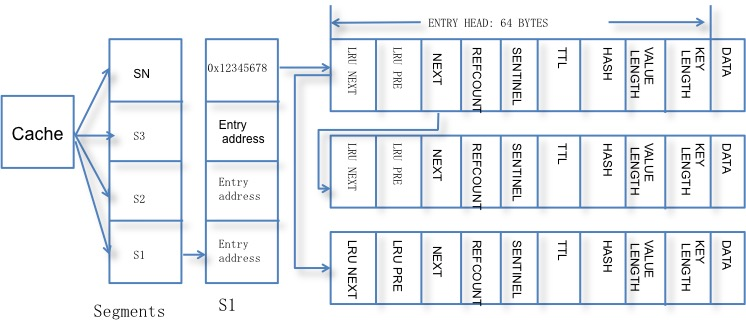
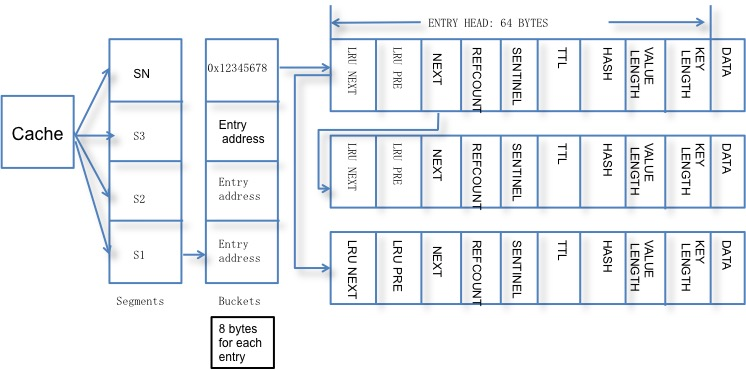
Site updated: 2016-09-10 19:45:51

diff --git a/2016/09/10/multiLevelCache2/index.html b/2016/09/10/multiLevelCache2/index.html
@@ -31,7 +31,7 @@
 
 开源实现本地缓存的开源实现也有不少，对于堆内缓存的开源方案则更多，比如Guava或者Ehcache，这个选择相对比较容易。这里我们重点关注的是堆外缓存的开源实现。了解">
 <meta property="og:image" content="http://yoursite.com/images/multilevelcache2/OHC-data.jpg">
-<meta property="og:updated_time" content="2016-09-10T11:12:13.000Z">
+<meta property="og:updated_time" content="2016-09-10T11:45:32.000Z">
 <meta name="twitter:card" content="summary">
 <meta name="twitter:title" content="多级缓存 （下）- 堆外缓存">
 <meta name="twitter:description" content="写在开头
@@ -279,7 +279,7 @@
 <p>本文后续的内容以OHC作为基础进行介绍。</p>
 <h2 id="堆外缓存关注点"><a href="#堆外缓存关注点" class="headerlink" title="堆外缓存关注点"></a>堆外缓存关注点</h2><h3 id="序列化"><a href="#序列化" class="headerlink" title="序列化"></a>序列化</h3><p>从上一节我们大概可以了解到，存放一个JAVA对象到堆外缓存中需要有一个从JAVA对象到ByteBuffer的转换的过程。而为了尽量简化API的使用，使用者不需要去为对象编写特定的序列化过程，我们需要一个高效的序列化框架。先通过序列化框架序列化, 再转成堆外的ByteBuffer上。在堆外缓存的使用场景中，该序列化框架应该至少具备以下一些要求：</p>
 <blockquote>
-<h4 id="高性能"><a href="#高性能" class="headerlink" title="高性能"></a>高性能</h4><p>这个不用说，鬼都知道</p>
+<h4 id="高性能"><a href="#高性能" class="headerlink" title="高性能"></a>高性能</h4><p>这个不用说</p>
 <h4 id="序列化的数据overhead小"><a href="#序列化的数据overhead小" class="headerlink" title="序列化的数据overhead小"></a>序列化的数据overhead小</h4><p>由于堆外缓存本来就占用内存资源多，所以如果序列化框架序列化造成的overhead过大的话是无法接受的。其实如果序列化框架造成的overhead是定长的话是最完美的，少去了中间转换的过程，可以直接把JAVA对象序列化到堆外，大大提高了性能也能降低GC的频率。</p>
 <h4 id="简单易用"><a href="#简单易用" class="headerlink" title="简单易用"></a>简单易用</h4><p>使用要尽量简单，尽量少的倾入，最好是用户根本就不知道你用的是什么鬼。所以那些基于IDL的如PB, Thrift，以及基于Schema的如Avro就不是很好的选择，如果还要代码生成的就要崩溃了, 这些大部分是基于跨语言通讯的需要。</p>
 <h4 id="兼容性"><a href="#兼容性" class="headerlink" title="兼容性"></a>兼容性</h4><p>这里的兼容性包括几个方面：</p>
@@ -289,13 +289,16 @@
 <li>当然如果你的数据没有持久化又或者你的应用不支持热加载如OSGI可以不要考虑该问题。</li>
 </ul>
 </blockquote>
-<p>关于序列化协议的选择，有一个非常不错的benchmark可以参考 <a href="https://github.com/eishay/jvm-serializers/wiki" target="_blank" rel="external">jvm-serializers</a>，里面对各种序列化协议从各种不同维度进行了对比。最后我们选择了Kryo，因为Kryo在性能上以及序列化造成的overhead上均表现非常优异，且使用对用户透明。TODO 给个例子</p>
+<p>关于序列化协议的选择，有一个非常不错的benchmark可以参考 <a href="https://github.com/eishay/jvm-serializers/wiki" target="_blank" rel="external">jvm-serializers</a>，里面对各种序列化协议从各种不同维度进行了对比。最后我们选择了Kryo，因为Kryo在性能上以及序列化造成的overhead上均表现非常优异，且使用对用户透明。</p>
+<p>一个Kryo的使用例子：</p>
+<figure class="highlight java"><table><tr><td class="gutter"><pre><div class="line">1</div><div class="line">2</div><div class="line">3</div><div class="line">4</div><div class="line">5</div><div class="line">6</div><div class="line">7</div><div class="line">8</div><div class="line">9</div><div class="line">10</div><div class="line">11</div><div class="line">12</div><div class="line">13</div><div class="line">14</div><div class="line">15</div><div class="line">16</div><div class="line">17</div><div class="line">18</div><div class="line">19</div></pre></td><td class="code"><pre><div class="line"><span class="comment">// Setup ThreadLocal of Kryo instances</span></div><div class="line"><span class="keyword">private</span> <span class="keyword">static</span> <span class="keyword">final</span> ThreadLocal&lt;Kryo&gt; kryos = <span class="keyword">new</span> ThreadLocal&lt;Kryo&gt;() &#123;</div><div class="line">    <span class="function"><span class="keyword">protected</span> Kryo <span class="title">initialValue</span><span class="params">()</span> </span>&#123;</div><div class="line">        Kryo kryo = <span class="keyword">new</span> Kryo();</div><div class="line">        <span class="comment">// configure kryo instance, customize settings</span></div><div class="line">        <span class="keyword">return</span> kryo;</div><div class="line">    &#125;;</div><div class="line">&#125;;</div><div class="line"></div><div class="line">Kryo kryo = kryos.get();</div><div class="line">    <span class="comment">// ...</span></div><div class="line">Output output = <span class="keyword">new</span> Output(<span class="keyword">new</span> FileOutputStream(<span class="string">"file.bin"</span>));</div><div class="line">SomeClass someObject = ...</div><div class="line">kryo.writeObject(output, someObject);</div><div class="line">output.close();</div><div class="line"><span class="comment">// ...</span></div><div class="line">Input input = <span class="keyword">new</span> Input(<span class="keyword">new</span> FileInputStream(<span class="string">"file.bin"</span>));</div><div class="line">SomeClass someObject = kryo.readObject(input, SomeClass.class);</div><div class="line">input.close();</div></pre></td></tr></table></figure>
+<p>这里自己需要简单封装一下，因为Kryo不是线程安全的，且每次使用创建的成本较高，所以要么Pooling要么TLC.</p>
 <h3 id="内存管理"><a href="#内存管理" class="headerlink" title="内存管理"></a>内存管理</h3><h4 id="JAVA堆外内存分配"><a href="#JAVA堆外内存分配" class="headerlink" title="JAVA堆外内存分配"></a>JAVA堆外内存分配</h4><p>堆外内存的分配大家比较熟悉的是使用如下的JNI方式进行分配：</p>
 <figure class="highlight java"><table><tr><td class="gutter"><pre><div class="line">1</div></pre></td><td class="code"><pre><div class="line">java.nio.ByteBuffer.allocateDirect(<span class="keyword">int</span>)</div></pre></td></tr></table></figure>
 <p>大抵的原理是其内部还是使用的Unsafe进行的内存分配, 从下面的API声明可知该方法是一个JNI的封装。详细请参考：<a href="http://www.docjar.com/html/api/sun/misc/Unsafe.java.html" target="_blank" rel="external">Unsafe</a>。</p>
 <figure class="highlight java"><table><tr><td class="gutter"><pre><div class="line">1</div></pre></td><td class="code"><pre><div class="line"><span class="function"><span class="keyword">public</span> <span class="keyword">native</span> <span class="keyword">long</span> <span class="title">allocateMemory</span><span class="params">(<span class="keyword">long</span> bytes)</span></span></div></pre></td></tr></table></figure>
 <p>通过Unsafe进行分配的内存受限于XX:MaxDirectMemorySize的配置，换句话无论哪里用到了堆外缓存，只要通过Unsafe的方式进行的分配都是共享该Quota的。最好的方式其实是不同用途的堆外内存可以隔离开来，比如堆外缓存的一块，netty的一块。</p>
-<p>JNA（Java Native Access) 是社区开发的一套类库，号称是JNI的终结者。传统需要调用本地方法既要写c代码生成DLL/SO，又要写java代码进行封装才能提供JAVA调用，既繁琐效率又低。而JNA是通过libffi来实现的，提供了一套接口，用户只需要通过JAVA代码定义本地方法和数据类型，JNA负责把JAVA方法的调用进行Dispatch到相应的本地方法调用，你不再需要不厌其烦的为每个本地方法都写个C和JAVA的wrapper方法对。详细请参考我的另外一个文章。TODO</p>
+<p>JNA（Java Native Access) 是社区开发的一套类库，号称是JNI的终结者。传统需要调用本地方法既要写c代码生成DLL/SO，又要写java代码进行封装才能提供JAVA调用，既繁琐效率又低。而JNA是通过libffi来实现的，提供了一套接口，用户只需要通过JAVA代码定义本地方法和数据类型，JNA负责把JAVA方法的调用进行Dispatch到相应的本地方法调用，你不再需要不厌其烦的为每个本地方法都写个C和JAVA的wrapper方法对。限于篇幅，请参考另外一篇。</p>
 <p>先来看一下，通过JNA的malloc是怎么做的：</p>
 <figure class="highlight java"><table><tr><td class="gutter"><pre><div class="line">1</div></pre></td><td class="code"><pre><div class="line">com.sun.jna.Native.malloc(<span class="keyword">long</span>)</div></pre></td></tr></table></figure>
 <p>方法声明如下：</p>
@@ -310,8 +313,8 @@
 <p>Segment的数量默认是内核的两倍，每个Segment的bucket数量默认是8192，loadFactor是0.75，应用需要根据自己的key的数量来合理的设置以上参数，否则可能会导致rehash次数过多或者访问效率过低。实现方式跟普通的ConcurrentHashMap差不多，只是从上图可知每个bucket及每个entry的数据都存放在一个特定的堆外数据结构当中。每个bucket 8个字节存放这个bucket的首个entry的内存地址，每个entry也是一块连续的内存，由固定长度的64个字节的头和key length+value length的data组成。</p>
 <p>当往cache中放一个k/v时，会动态申请一块新的内存，删除后直接释放。为什么没有像netty一样通过维护一组不同大小的buffer来组合复用内存呢？个人觉得cache主要解决的是读多写少的问题，数据变的频率较低。另外堆外缓存存放的是百万甚至千万的entry，所以对内存大小比较敏感，最好是一点也不浪费，要多少则申请多少，而不是使用固定大小的内存块，大小总归不一定匹配，会有一些浪费。</p>
 <p>最后，OHC也提供了一个参数用于配置堆外缓存的总内存大小，如果你是需要缓存全量数据的则使用的时候需要合理评估容量进行设置。如果缓存的是热点数据，当空间不足时会根据LRU进行淘汰数据。</p>
-<h3 id="容量评估"><a href="#容量评估" class="headerlink" title="容量评估"></a>容量评估</h3><p>当你使用堆外缓存时，一个很重要的就是需要提前进行内存容量的评估。这里有个需要重点考虑的因数是除了业务数据本身的大小之外，你还要考虑序列化框架的序列化和缓存框架本身的数据结构造成的overhead。以OHC为例，由OHC的数据结构可知，OHC造成的overhead = bucket number <em> 8字节 + entry number </em> 64个字节。</p>
-<p>当然最稳妥的方式是进行压测！</p>
+<h3 id="容量评估"><a href="#容量评估" class="headerlink" title="容量评估"></a>容量评估</h3><p>当你使用堆外缓存时，一个很重要的就是需要提前进行内存容量的评估。这里有个需要重点考虑的因数是除了业务数据本身的大小之外，你还要考虑序列化框架的序列化和缓存框架本身的数据结构造成的overhead。比如：kryo需要可能需要存储对象的类名、属性类型、属性是否为空等各种标识，取决于你的对象的复杂程度，会造成额外的overhead. 另外，以OHC为例，由OHC的数据结构可知，OHC造成的overhead = bucket number * 8字节 + entry number * 64个字节。</p>
+<p>当然最稳妥的方式是根据业务情况进行压测！</p>
 <h2 id="写在最后"><a href="#写在最后" class="headerlink" title="写在最后"></a>写在最后</h2><p>后续还可以关注以下问题：</p>
 <ul>
 <li>评测缓存数据量及更新频率对GC的影响，为选择堆内还是堆外缓存提供参考依据。</li>

diff --git a/index.html b/index.html
@@ -241,7 +241,7 @@
 <p>本文后续的内容以OHC作为基础进行介绍。</p>
 <h2 id="堆外缓存关注点"><a href="#堆外缓存关注点" class="headerlink" title="堆外缓存关注点"></a>堆外缓存关注点</h2><h3 id="序列化"><a href="#序列化" class="headerlink" title="序列化"></a>序列化</h3><p>从上一节我们大概可以了解到，存放一个JAVA对象到堆外缓存中需要有一个从JAVA对象到ByteBuffer的转换的过程。而为了尽量简化API的使用，使用者不需要去为对象编写特定的序列化过程，我们需要一个高效的序列化框架。先通过序列化框架序列化, 再转成堆外的ByteBuffer上。在堆外缓存的使用场景中，该序列化框架应该至少具备以下一些要求：</p>
 <blockquote>
-<h4 id="高性能"><a href="#高性能" class="headerlink" title="高性能"></a>高性能</h4><p>这个不用说，鬼都知道</p>
+<h4 id="高性能"><a href="#高性能" class="headerlink" title="高性能"></a>高性能</h4><p>这个不用说</p>
 <h4 id="序列化的数据overhead小"><a href="#序列化的数据overhead小" class="headerlink" title="序列化的数据overhead小"></a>序列化的数据overhead小</h4><p>由于堆外缓存本来就占用内存资源多，所以如果序列化框架序列化造成的overhead过大的话是无法接受的。其实如果序列化框架造成的overhead是定长的话是最完美的，少去了中间转换的过程，可以直接把JAVA对象序列化到堆外，大大提高了性能也能降低GC的频率。</p>
 <h4 id="简单易用"><a href="#简单易用" class="headerlink" title="简单易用"></a>简单易用</h4><p>使用要尽量简单，尽量少的倾入，最好是用户根本就不知道你用的是什么鬼。所以那些基于IDL的如PB, Thrift，以及基于Schema的如Avro就不是很好的选择，如果还要代码生成的就要崩溃了, 这些大部分是基于跨语言通讯的需要。</p>
 <h4 id="兼容性"><a href="#兼容性" class="headerlink" title="兼容性"></a>兼容性</h4><p>这里的兼容性包括几个方面：</p>
@@ -251,13 +251,16 @@
 <li>当然如果你的数据没有持久化又或者你的应用不支持热加载如OSGI可以不要考虑该问题。</li>
 </ul>
 </blockquote>
-<p>关于序列化协议的选择，有一个非常不错的benchmark可以参考 <a href="https://github.com/eishay/jvm-serializers/wiki" target="_blank" rel="external">jvm-serializers</a>，里面对各种序列化协议从各种不同维度进行了对比。最后我们选择了Kryo，因为Kryo在性能上以及序列化造成的overhead上均表现非常优异，且使用对用户透明。TODO 给个例子</p>
+<p>关于序列化协议的选择，有一个非常不错的benchmark可以参考 <a href="https://github.com/eishay/jvm-serializers/wiki" target="_blank" rel="external">jvm-serializers</a>，里面对各种序列化协议从各种不同维度进行了对比。最后我们选择了Kryo，因为Kryo在性能上以及序列化造成的overhead上均表现非常优异，且使用对用户透明。</p>
+<p>一个Kryo的使用例子：</p>
+<figure class="highlight java"><table><tr><td class="gutter"><pre><div class="line">1</div><div class="line">2</div><div class="line">3</div><div class="line">4</div><div class="line">5</div><div class="line">6</div><div class="line">7</div><div class="line">8</div><div class="line">9</div><div class="line">10</div><div class="line">11</div><div class="line">12</div><div class="line">13</div><div class="line">14</div><div class="line">15</div><div class="line">16</div><div class="line">17</div><div class="line">18</div><div class="line">19</div></pre></td><td class="code"><pre><div class="line"><span class="comment">// Setup ThreadLocal of Kryo instances</span></div><div class="line"><span class="keyword">private</span> <span class="keyword">static</span> <span class="keyword">final</span> ThreadLocal&lt;Kryo&gt; kryos = <span class="keyword">new</span> ThreadLocal&lt;Kryo&gt;() &#123;</div><div class="line">    <span class="function"><span class="keyword">protected</span> Kryo <span class="title">initialValue</span><span class="params">()</span> </span>&#123;</div><div class="line">        Kryo kryo = <span class="keyword">new</span> Kryo();</div><div class="line">        <span class="comment">// configure kryo instance, customize settings</span></div><div class="line">        <span class="keyword">return</span> kryo;</div><div class="line">    &#125;;</div><div class="line">&#125;;</div><div class="line"></div><div class="line">Kryo kryo = kryos.get();</div><div class="line">    <span class="comment">// ...</span></div><div class="line">Output output = <span class="keyword">new</span> Output(<span class="keyword">new</span> FileOutputStream(<span class="string">"file.bin"</span>));</div><div class="line">SomeClass someObject = ...</div><div class="line">kryo.writeObject(output, someObject);</div><div class="line">output.close();</div><div class="line"><span class="comment">// ...</span></div><div class="line">Input input = <span class="keyword">new</span> Input(<span class="keyword">new</span> FileInputStream(<span class="string">"file.bin"</span>));</div><div class="line">SomeClass someObject = kryo.readObject(input, SomeClass.class);</div><div class="line">input.close();</div></pre></td></tr></table></figure>
+<p>这里自己需要简单封装一下，因为Kryo不是线程安全的，且每次使用创建的成本较高，所以要么Pooling要么TLC.</p>
 <h3 id="内存管理"><a href="#内存管理" class="headerlink" title="内存管理"></a>内存管理</h3><h4 id="JAVA堆外内存分配"><a href="#JAVA堆外内存分配" class="headerlink" title="JAVA堆外内存分配"></a>JAVA堆外内存分配</h4><p>堆外内存的分配大家比较熟悉的是使用如下的JNI方式进行分配：</p>
 <figure class="highlight java"><table><tr><td class="gutter"><pre><div class="line">1</div></pre></td><td class="code"><pre><div class="line">java.nio.ByteBuffer.allocateDirect(<span class="keyword">int</span>)</div></pre></td></tr></table></figure>
 <p>大抵的原理是其内部还是使用的Unsafe进行的内存分配, 从下面的API声明可知该方法是一个JNI的封装。详细请参考：<a href="http://www.docjar.com/html/api/sun/misc/Unsafe.java.html" target="_blank" rel="external">Unsafe</a>。</p>
 <figure class="highlight java"><table><tr><td class="gutter"><pre><div class="line">1</div></pre></td><td class="code"><pre><div class="line"><span class="function"><span class="keyword">public</span> <span class="keyword">native</span> <span class="keyword">long</span> <span class="title">allocateMemory</span><span class="params">(<span class="keyword">long</span> bytes)</span></span></div></pre></td></tr></table></figure>
 <p>通过Unsafe进行分配的内存受限于XX:MaxDirectMemorySize的配置，换句话无论哪里用到了堆外缓存，只要通过Unsafe的方式进行的分配都是共享该Quota的。最好的方式其实是不同用途的堆外内存可以隔离开来，比如堆外缓存的一块，netty的一块。</p>
-<p>JNA（Java Native Access) 是社区开发的一套类库，号称是JNI的终结者。传统需要调用本地方法既要写c代码生成DLL/SO，又要写java代码进行封装才能提供JAVA调用，既繁琐效率又低。而JNA是通过libffi来实现的，提供了一套接口，用户只需要通过JAVA代码定义本地方法和数据类型，JNA负责把JAVA方法的调用进行Dispatch到相应的本地方法调用，你不再需要不厌其烦的为每个本地方法都写个C和JAVA的wrapper方法对。详细请参考我的另外一个文章。TODO</p>
+<p>JNA（Java Native Access) 是社区开发的一套类库，号称是JNI的终结者。传统需要调用本地方法既要写c代码生成DLL/SO，又要写java代码进行封装才能提供JAVA调用，既繁琐效率又低。而JNA是通过libffi来实现的，提供了一套接口，用户只需要通过JAVA代码定义本地方法和数据类型，JNA负责把JAVA方法的调用进行Dispatch到相应的本地方法调用，你不再需要不厌其烦的为每个本地方法都写个C和JAVA的wrapper方法对。限于篇幅，请参考另外一篇。</p>
 <p>先来看一下，通过JNA的malloc是怎么做的：</p>
 <figure class="highlight java"><table><tr><td class="gutter"><pre><div class="line">1</div></pre></td><td class="code"><pre><div class="line">com.sun.jna.Native.malloc(<span class="keyword">long</span>)</div></pre></td></tr></table></figure>
 <p>方法声明如下：</p>
@@ -272,8 +275,8 @@
 <p>Segment的数量默认是内核的两倍，每个Segment的bucket数量默认是8192，loadFactor是0.75，应用需要根据自己的key的数量来合理的设置以上参数，否则可能会导致rehash次数过多或者访问效率过低。实现方式跟普通的ConcurrentHashMap差不多，只是从上图可知每个bucket及每个entry的数据都存放在一个特定的堆外数据结构当中。每个bucket 8个字节存放这个bucket的首个entry的内存地址，每个entry也是一块连续的内存，由固定长度的64个字节的头和key length+value length的data组成。</p>
 <p>当往cache中放一个k/v时，会动态申请一块新的内存，删除后直接释放。为什么没有像netty一样通过维护一组不同大小的buffer来组合复用内存呢？个人觉得cache主要解决的是读多写少的问题，数据变的频率较低。另外堆外缓存存放的是百万甚至千万的entry，所以对内存大小比较敏感，最好是一点也不浪费，要多少则申请多少，而不是使用固定大小的内存块，大小总归不一定匹配，会有一些浪费。</p>
 <p>最后，OHC也提供了一个参数用于配置堆外缓存的总内存大小，如果你是需要缓存全量数据的则使用的时候需要合理评估容量进行设置。如果缓存的是热点数据，当空间不足时会根据LRU进行淘汰数据。</p>
-<h3 id="容量评估"><a href="#容量评估" class="headerlink" title="容量评估"></a>容量评估</h3><p>当你使用堆外缓存时，一个很重要的就是需要提前进行内存容量的评估。这里有个需要重点考虑的因数是除了业务数据本身的大小之外，你还要考虑序列化框架的序列化和缓存框架本身的数据结构造成的overhead。以OHC为例，由OHC的数据结构可知，OHC造成的overhead = bucket number <em> 8字节 + entry number </em> 64个字节。</p>
-<p>当然最稳妥的方式是进行压测！</p>
+<h3 id="容量评估"><a href="#容量评估" class="headerlink" title="容量评估"></a>容量评估</h3><p>当你使用堆外缓存时，一个很重要的就是需要提前进行内存容量的评估。这里有个需要重点考虑的因数是除了业务数据本身的大小之外，你还要考虑序列化框架的序列化和缓存框架本身的数据结构造成的overhead。比如：kryo需要可能需要存储对象的类名、属性类型、属性是否为空等各种标识，取决于你的对象的复杂程度，会造成额外的overhead. 另外，以OHC为例，由OHC的数据结构可知，OHC造成的overhead = bucket number * 8字节 + entry number * 64个字节。</p>
+<p>当然最稳妥的方式是根据业务情况进行压测！</p>
 <h2 id="写在最后"><a href="#写在最后" class="headerlink" title="写在最后"></a>写在最后</h2><p>后续还可以关注以下问题：</p>
 <ul>
 <li>评测缓存数据量及更新频率对GC的影响，为选择堆内还是堆外缓存提供参考依据。</li>
